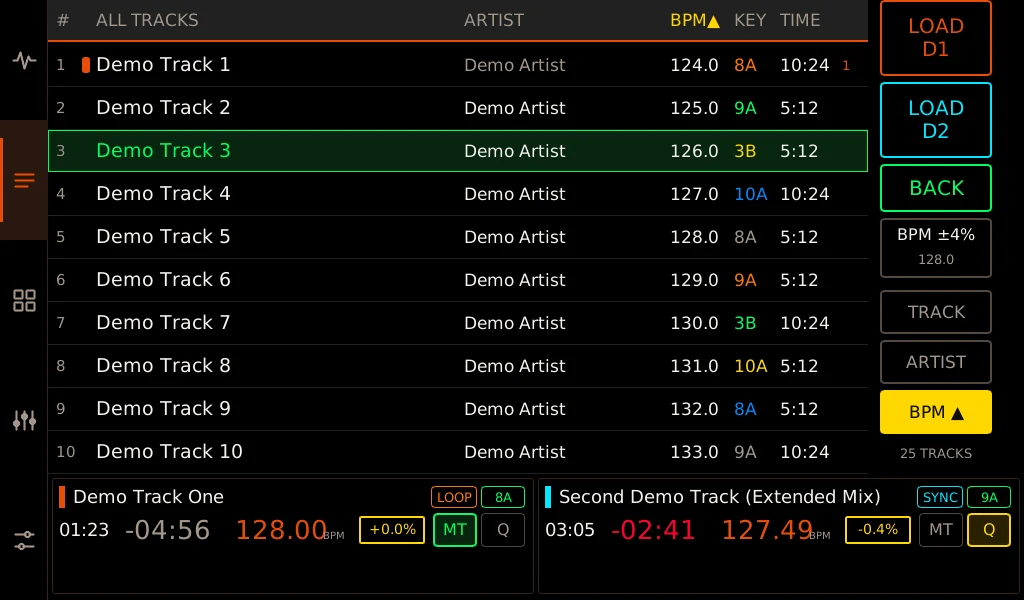
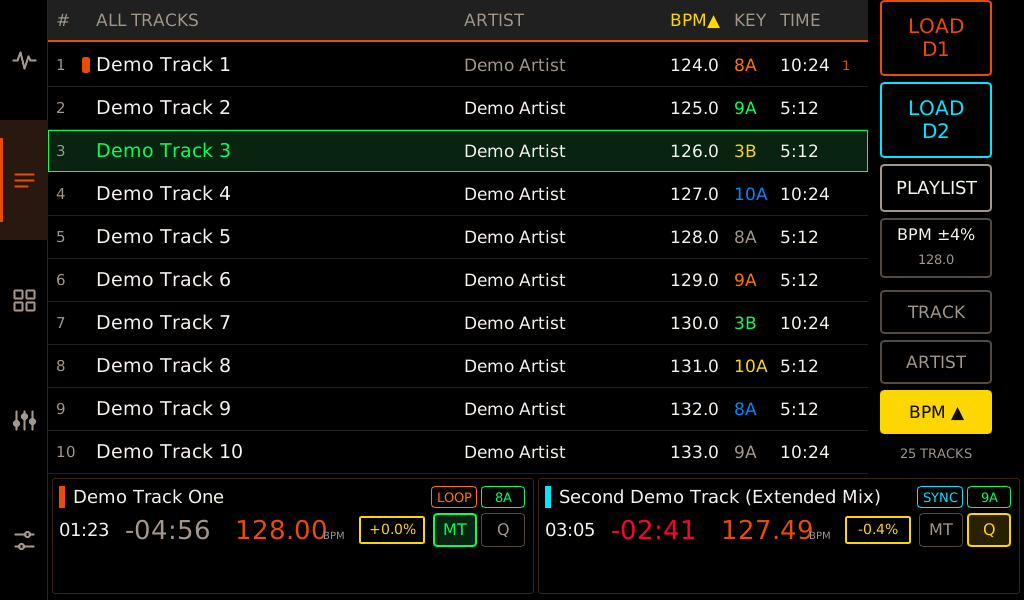
jc1060: Library PLAYLIST in place of BACK
The owner asked for it (2026-11-27): BACK was not needed. PLAYLIST goes
from the tracks to the playlists' top level, from a folder or playlist
straight to that level, and from there back to the tracks. Shift and the
browse press still go one level up. Manual and its Library image updated.

diff --git a/index.html b/index.html
@@ -129,7 +129,7 @@
         </figure>
         <figure class="manual-shot device-shot">
           <a href="docs/manual/screen-library.webp">
-            <img src="docs/manual/screen-library.webp" width="1024" height="600" loading="lazy" decoding="async" alt="The Library: ten track rows with title, artist, BPM, key and time, sorted by BPM, with LOAD D1, LOAD D2, BACK, BPM ±4%, TRACK, ARTIST and BPM buttons on the right.">
+            <img src="docs/manual/screen-library.webp" width="1024" height="600" loading="lazy" decoding="async" alt="The Library: ten track rows with title, artist, BPM, key and time, sorted by BPM, with LOAD D1, LOAD D2, PLAYLIST, BPM ±4%, TRACK, ARTIST and BPM buttons on the right.">
           </a>
           <figcaption>LIBRARY sorted by BPM. Keys are colored against the playing deck’s key.</figcaption>
         </figure>
@@ -141,7 +141,8 @@
               <tr><th scope="row">Press the browse knob outside the library</th><td>Opens LIBRARY. Hold SHIFT to open the playlist view or retain a folder or playlist that was already open.</td></tr>
               <tr><th scope="row">Turn the browse knob inside LIBRARY</th><td>Moves the selection one row per detent. Hold SHIFT to move ten rows at a time. You can also tap a row to select it.</td></tr>
               <tr><th scope="row">Press the knob on a folder or playlist</th><td>Opens the selected item. On the screen, tap the selected row again to open it. Pressing the knob on a track returns to the Overview.</td></tr>
-              <tr><th scope="row">SHIFT + browse knob press or on-screen BACK</th><td>Goes up one level. From the top-level playlist view, it returns to all tracks.</td></tr>
+              <tr><th scope="row">SHIFT + browse knob press</th><td>Goes up one level. From the top-level playlist view, it returns to all tracks.</td></tr>
+              <tr><th scope="row">On-screen PLAYLIST</th><td>Opens the playlist view from all tracks, and from inside a folder or playlist goes straight back to the playlist view. In the playlist view, tap it again to return to all tracks. It is lit green while you are in the playlists and grey when the drive has no playlists.</td></tr>
               <tr><th scope="row">LOAD for deck 1 or deck 2</th><td>Loads the selected track onto that deck. If you selected a folder or playlist, LOAD opens it first. With LOAD LOCK enabled, a playing deck refuses a replacement track.</td></tr>
             </tbody>
           </table>

diff --git a/firmware-idf/legacy-jc1060/rust-core/src/deck_view/tests.rs b/firmware-idf/legacy-jc1060/rust-core/src/deck_view/tests.rs
@@ -100,9 +100,9 @@ fn touches_reach_the_usb_task_in_order_and_a_full_queue_drops_the_newest() {
     assert_eq!(queue.pop(), Some((1, TouchControl::Cue(true))));
     assert_eq!(queue.pop(), Some((1, TouchControl::Cue(false))));
     assert!(queue.push(0, TouchControl::LibraryOpen));
-    assert!(queue.push(0, TouchControl::LibraryBack));
+    assert!(queue.push(0, TouchControl::LibraryPlaylists));
     assert_eq!(queue.pop(), Some((0, TouchControl::LibraryOpen)));
-    assert_eq!(queue.pop(), Some((0, TouchControl::LibraryBack)));
+    assert_eq!(queue.pop(), Some((0, TouchControl::LibraryPlaylists)));
     assert!(queue.push(1, TouchControl::Memory(0)));
     assert!(queue.push(0, TouchControl::Memory(15)));
     assert_eq!(queue.pop(), Some((1, TouchControl::Memory(0))));
@@ -357,6 +357,60 @@ fn back_returns_to_the_row_it_came_from_however_deep_the_tree() {
     }
     assert!(back());
     assert_eq!((level(), selected()), (Level::Top, Some(1)));
+    clear_shelf();
+    publish_library(std::vec::Vec::new());
+    take_library();
+}
+
+#[test]
+fn playlist_toggles_with_the_tracks_and_climbs_straight_to_the_top_level() {
+    let _decks = crate::DECK_TESTS.lock().unwrap_or_else(|e| e.into_inner());
+    publish_library(std::vec![LibraryRow::default(); 3]);
+    clear_shelf();
+    select(2);
+    assert!(!playlists(), "no playlists: the track list stays");
+    assert_eq!((level(), selected()), (Level::All, Some(2)));
+    // Top level: a playlist, then a folder with a folder in it, which holds a playlist.
+    let mut shelf = Shelf::default();
+    for (name, folder, parent) in [
+        ("first", false, None),
+        ("outer", true, None),
+        ("inner", true, Some(1)),
+        ("deep", false, Some(2)),
+    ] {
+        shelf.nodes.push(ShelfNode {
+            name: name.into(),
+            folder,
+            parent,
+            children: std::vec::Vec::new(),
+            tracks: std::vec::Vec::new(),
+        });
+    }
+    shelf.top = std::vec![0, 1];
+    shelf.nodes[1].children = std::vec![2];
+    shelf.nodes[2].children = std::vec![3];
+    publish_shelf(shelf);
+    select(2);
+    assert!(playlists());
+    assert_eq!((level(), selected()), (Level::Top, Some(0)));
+    assert!(playlists(), "a second tap goes back to the tracks");
+    assert_eq!(
+        (level(), selected()),
+        (Level::All, Some(2)),
+        "on the track it left"
+    );
+    assert!(playlists());
+    select(1);
+    assert!(open());
+    assert!(open());
+    assert!(open());
+    assert_eq!(level(), Level::Node(3));
+    assert!(playlists(), "from two folders down");
+    assert_eq!(
+        (level(), selected()),
+        (Level::Top, Some(1)),
+        "on the top-level folder it lies under"
+    );
     clear_shelf();
     publish_library(std::vec::Vec::new());
     take_library();

diff --git a/firmware-idf/legacy-jc1060/rust-core/src/deck_view.rs b/firmware-idf/legacy-jc1060/rust-core/src/deck_view.rs
@@ -359,8 +359,9 @@ pub(crate) enum TouchControl {
     /// The Library page's selected folder or playlist tapped again: open it, as the
     /// browse knob's press does. It belongs to no deck.
     LibraryOpen,
-    /// The Library page's BACK: one level up, as Shift and the browse knob's press do.
-    LibraryBack,
+    /// The Library page's PLAYLIST: the playlists' top level, or from there back to the
+    /// track list (`playlists`). It belongs to no deck.
+    LibraryPlaylists,
     /// A memory cue on the Hot Cues page tapped (0 to 15): the deck calls it, as the
     /// SAMPLER pads do.
     Memory(u8),
@@ -422,7 +423,7 @@ impl TouchQueue {
                 }
                 TouchControl::MasterTempo => 1 << 20,
                 TouchControl::LibraryOpen => 1 << 21,
-                TouchControl::LibraryBack => 1 << 21 | 1 << 22,
+                TouchControl::LibraryPlaylists => 1 << 21 | 1 << 22,
                 TouchControl::Memory(n) => 1 << 23 | u32::from(n & 15) << 24,
             };
         self.slots[(head % TOUCH_SLOTS) as usize].store(word, Ordering::Relaxed);
@@ -449,7 +450,7 @@ impl TouchQueue {
             TouchControl::Memory((word >> 24 & 15) as u8)
         } else if word & 1 << 21 != 0 {
             if word & 1 << 22 != 0 {
-                TouchControl::LibraryBack
+                TouchControl::LibraryPlaylists
             } else {
                 TouchControl::LibraryOpen
             }
@@ -834,6 +835,37 @@ pub(crate) fn back() -> bool {
     LEVEL.store(up, Ordering::Relaxed);
     let len = level_len(level());
     SELECTED.store(selected.min(len.saturating_sub(1)), Ordering::Relaxed);
+    true
+}
+
+/// The Library page's PLAYLIST: from the track list to the playlists' top level, from
+/// there back to the track list, and from a folder or playlist however deep straight to
+/// the top level, on the row it lies under. False when the export has no playlists.
+/// The engine's side.
+pub(crate) fn playlists() -> bool {
+    let Level::Node(node) = level() else {
+        return back();
+    };
+    let Some(shelf) = shelf() else {
+        return false;
+    };
+    // The top-level node it lies under. No path is longer than the tree has nodes; the
+    // bound only stops a broken parent loop.
+    let mut top = node;
+    for _ in 0..shelf.nodes.len() {
+        match shelf.nodes.get(top as usize).and_then(|node| node.parent) {
+            Some(parent) => top = parent,
+            None => break,
+        }
+    }
+    let row = shelf
+        .top
+        .iter()
+        .position(|&child| child == top)
+        .unwrap_or(0) as u32;
+    LEVEL.store(TOP, Ordering::Relaxed);
+    let len = level_len(Level::Top);
+    SELECTED.store(row.min(len.saturating_sub(1)), Ordering::Relaxed);
     true
 }
 

diff --git a/firmware-idf/legacy-jc1060/rust-core/src/slint_ui.rs b/firmware-idf/legacy-jc1060/rust-core/src/slint_ui.rs
@@ -2085,7 +2085,8 @@ fn show_library(
             .into(),
         );
         ui.set_library_heading("MEDIA REMOVED".into());
-        ui.set_library_can_back(level != Level::All || deck_view::level_len(Level::Top) != 0);
+        ui.set_library_has_playlists(deck_view::level_len(Level::Top) != 0);
+        ui.set_library_in_playlists(level != Level::All);
         return (changed, None);
     }
     let count_text = match selected {
@@ -2102,7 +2103,8 @@ fn show_library(
         heading.push_str(name);
     }
     ui.set_library_heading(heading.into());
-    ui.set_library_can_back(level != Level::All || deck_view::level_len(Level::Top) != 0);
+    ui.set_library_has_playlists(deck_view::level_len(Level::Top) != 0);
+    ui.set_library_in_playlists(level != Level::All);
     (changed, Some(count_text))
 }
 
@@ -2281,8 +2283,8 @@ pub unsafe extern "C" fn ruzina_legacy_slint_run(shown: *mut u16) {
     let bpm_filter: Rc<core::cell::Cell<bool>> = Rc::default();
     let filter = bpm_filter.clone();
     ui.on_library_bpm_filter_toggled(move || filter.set(!filter.get()));
-    ui.on_library_back(|| {
-        deck_view::TOUCH.push(0, deck_view::TouchControl::LibraryBack);
+    ui.on_library_playlists(|| {
+        deck_view::TOUCH.push(0, deck_view::TouchControl::LibraryPlaylists);
     });
     ui.on_load(|deck| {
         deck_view::TOUCH.push(deck as usize & 1, deck_view::TouchControl::Load);

diff --git a/firmware-idf/legacy-jc1060/rust-core/src/controller_midi.rs b/firmware-idf/legacy-jc1060/rust-core/src/controller_midi.rs
@@ -474,6 +474,12 @@ fn refresh_mix() {
         while let Some((deck, control)) = crate::deck_view::TOUCH.pop() {
             // The FX page picks an effect or a beat; the engine steps to it from where
             // it is now.
+            if control == crate::deck_view::TouchControl::LibraryPlaylists {
+                // The Library's level belongs to this task, as Shift and the browse
+                // knob's press move it here too.
+                crate::deck_view::playlists();
+                continue;
+            }
             let fx = mix.engine().fx_view();
             for event in touch_events(deck, control, fx).into_iter().flatten() {
                 mix.control(&event);
@@ -627,7 +633,8 @@ pub(crate) fn touch_events(
         }
         TouchControl::Load => events.presses(on, SemanticControl::Load, 1),
         TouchControl::LibraryOpen => events.presses(None, SemanticControl::BrowsePress, 1),
-        TouchControl::LibraryBack => events.presses(None, SemanticControl::ShiftBrowsePress, 1),
+        // No controller event: the USB task moves the Library itself (`refresh_mix`).
+        TouchControl::LibraryPlaylists => {}
         // The pad in Hot Cue mode, whatever mode the controller's pads are in.
         TouchControl::HotCue { pad, delete, down } => events.push(
             on,

diff --git a/firmware-idf/legacy-jc1060/rust-core/examples/render_screens.rs b/firmware-idf/legacy-jc1060/rust-core/examples/render_screens.rs
@@ -121,7 +121,7 @@ fn demo(ui: &Overview) {
     ]));
     ui.set_library_heading(text("ALL TRACKS"));
     ui.set_library_count(text("25 TRACKS"));
-    ui.set_library_can_back(true);
+    ui.set_library_has_playlists(true);
     ui.set_library_sort_column(2);
     ui.set_library_bpm_reference(text("128.0"));
     ui.set_library_rows(model(
